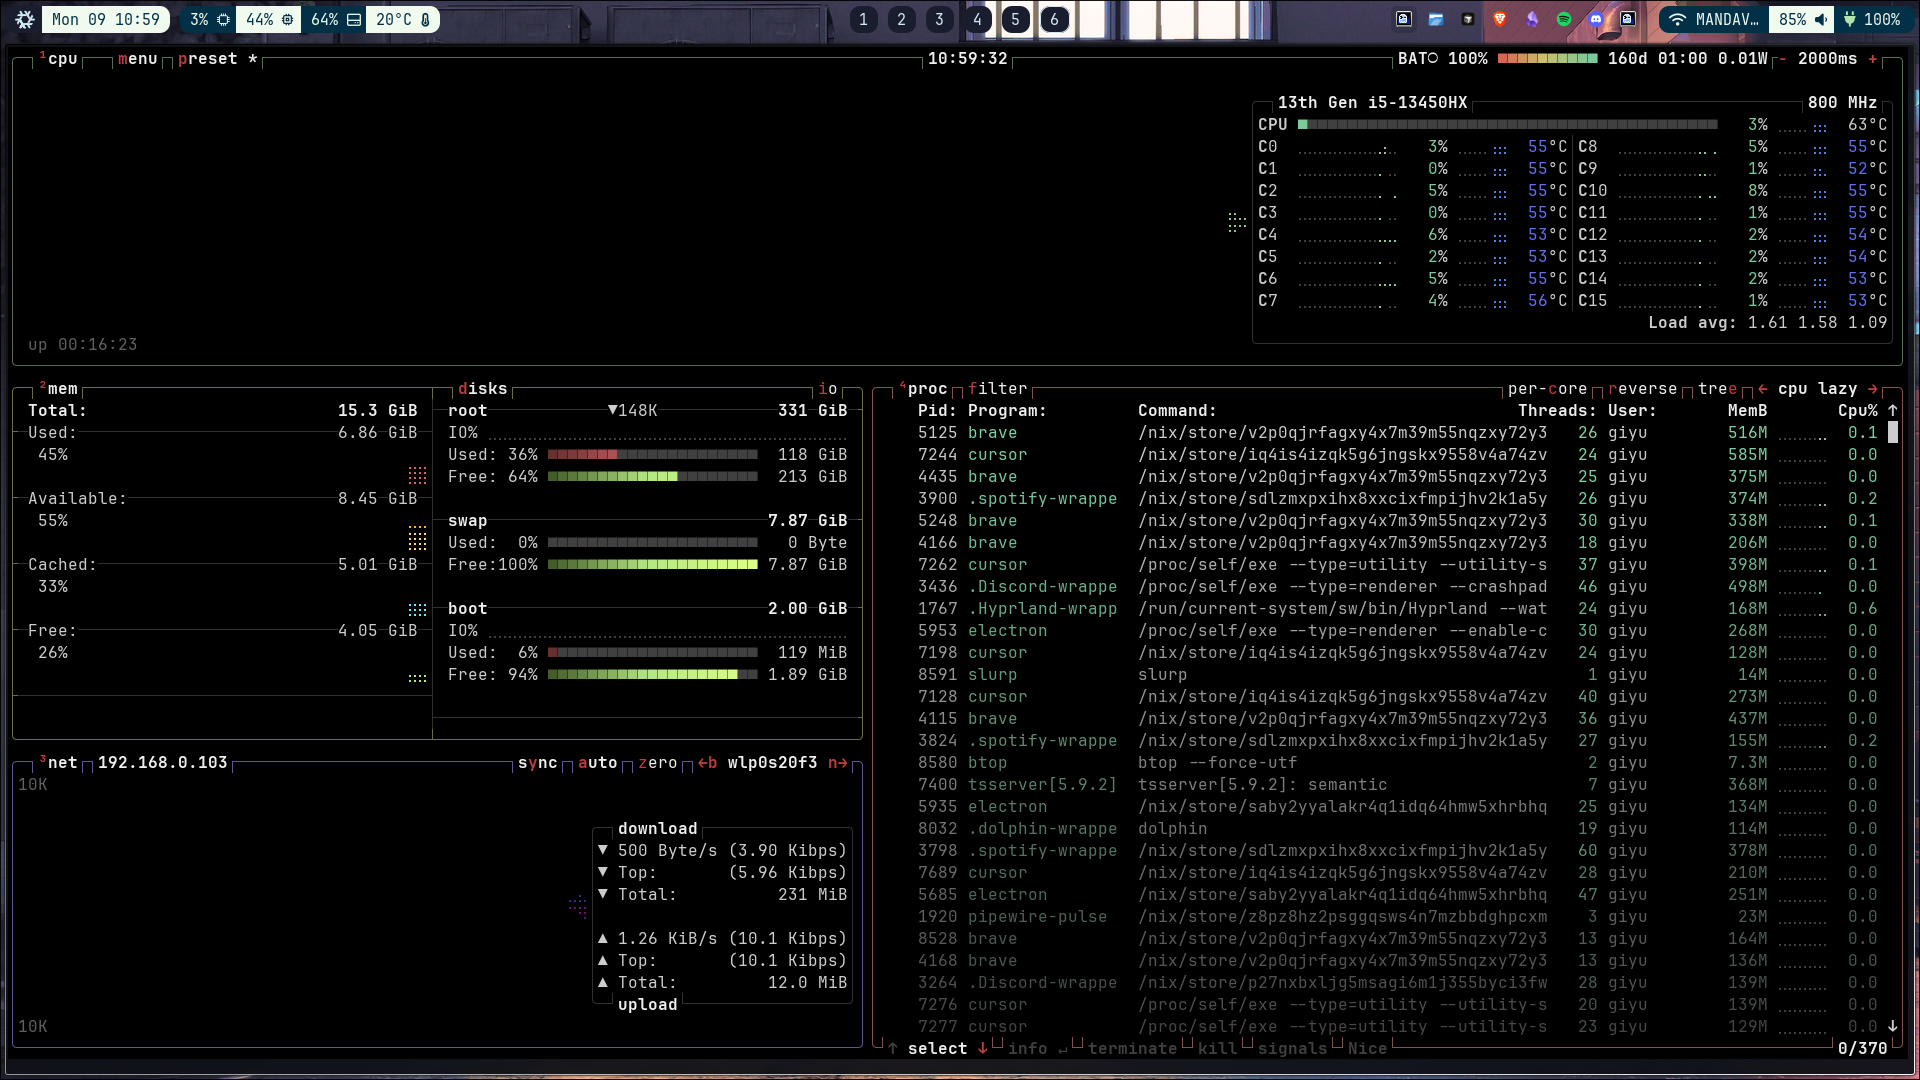
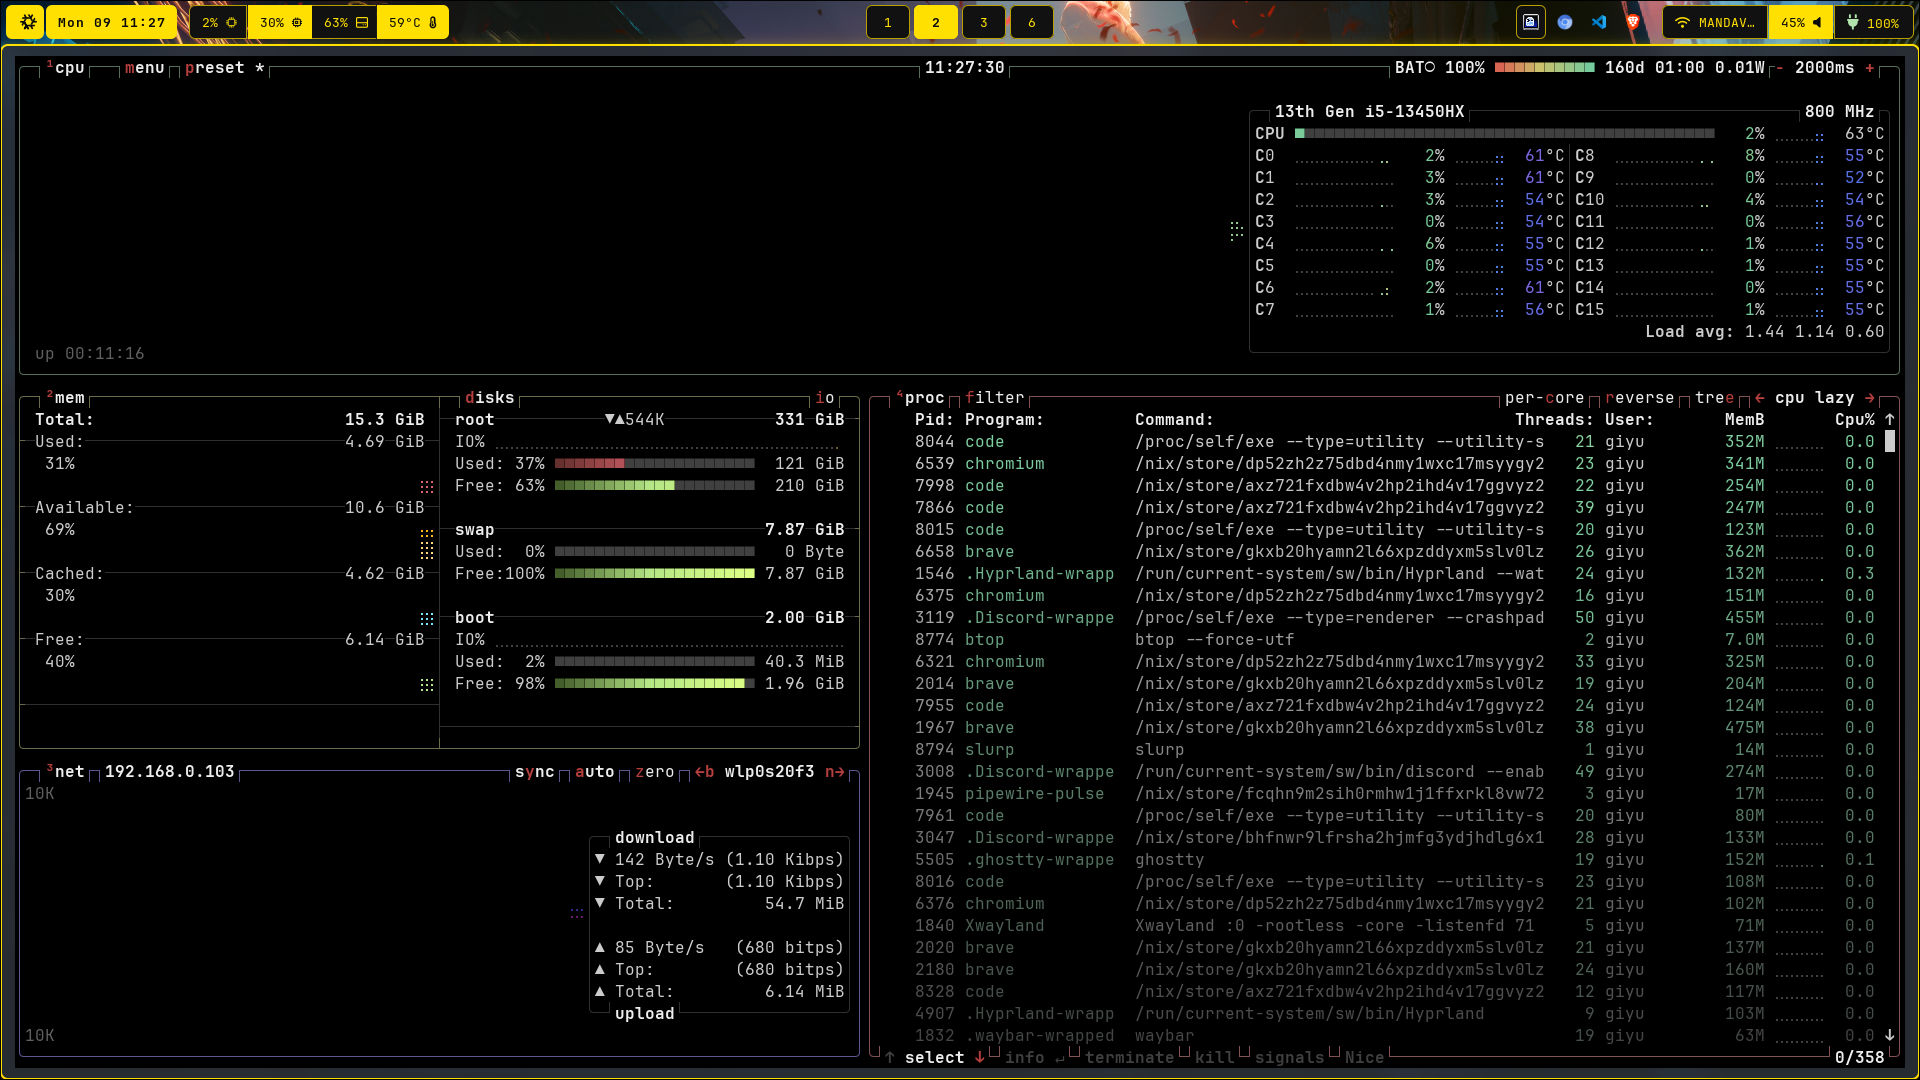
readme updated

Changed region(s): [[0.0, 0.0, 1.0, 1.0]]

diff --git a/README.md b/README.md
@@ -12,12 +12,11 @@ Custom NixOS configuration with Hyprland window manager, optimized for developme
 
 ## Images
 
-| | |
-|:---:|:---:|
-| ![Fastfetch](./images/fastfetch-ss.png) | ![Htop](./images/htops-ss.png) |
-| ![Btop](./images/btop.png) | ![Rofi](./images/rofi.png) |
-| ![Cursor](./images/cursor-ss.png) | ![Discord & Spotify](./images/discord-spotify-ss.png) |
-| ![3 Apps](./images/ss-3apps.png) | ![4 nvim](./images/nvim.png) |
+| | | |
+|:---:|:---:|:---:|
+| ![Browser](./images/borwser.png) | ![Btop](./images/btop.png) | ![Discord & Spotify](./images/dis-spo.png) |
+| ![Fastfetch](./images/fastfetch.png) | ![Nitch](./images/nitch.png) | ![Rofi](./images/rofi.png) |
+| ![VS Code](./images/vscode.png) | ![Waybar](./images/waybar.png) | ![Zed](./images/zed.png) |
 
 ## Key Features
 
@@ -116,5 +115,4 @@ Custom NixOS configuration with Hyprland window manager, optimized for developme
 All configurations have been customized for personal use.
 
 ---
-
 
